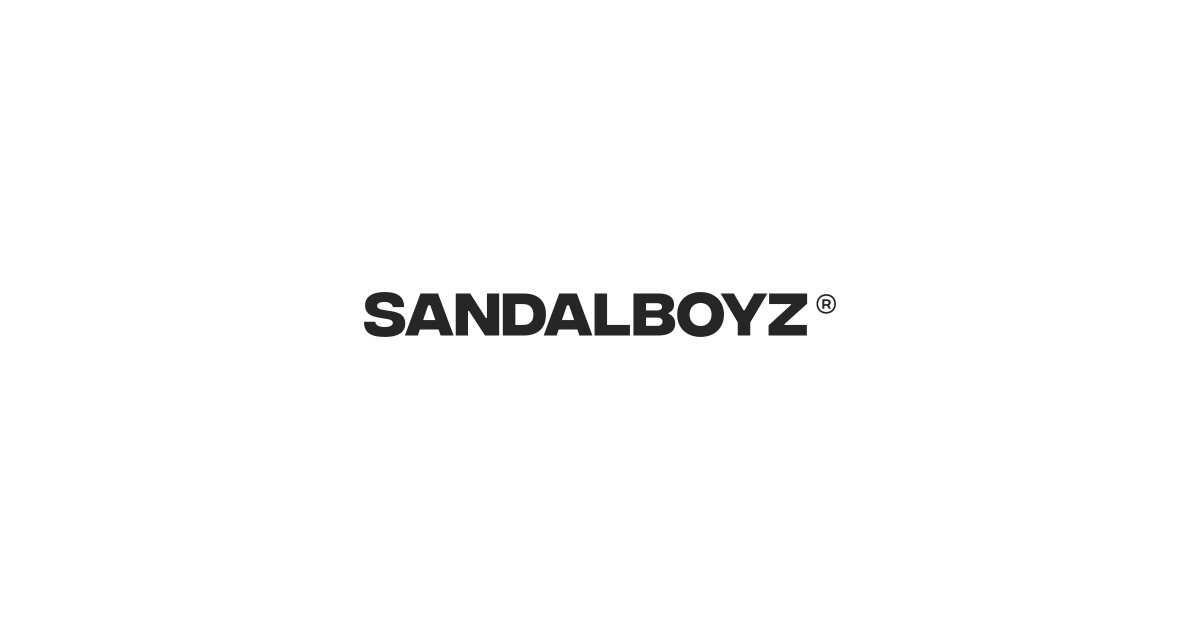
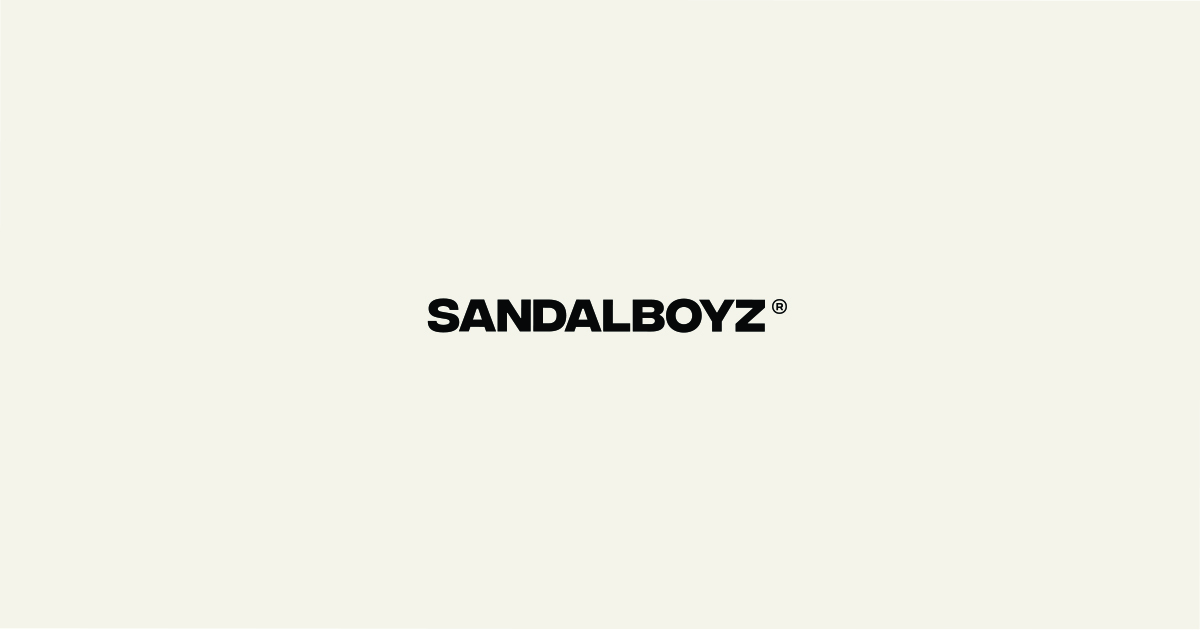
Feat/about seo (#52)
* add head

* fix contentful oncreatenode

* add about logo

* about page transo

Changed region(s): [[0.3083, 0.4524, 0.7092, 0.5429]]

diff --git a/src/components/About/index.js b/src/components/About/index.js
@@ -1,17 +1,19 @@
 import React from 'react';
 import PropTypes from 'prop-types';
 import Image from 'gatsby-image';
+import { motion } from 'framer-motion';
 import styled from 'styled-components';
 import get from 'lodash/get';
 import { documentToReactComponents } from '@contentful/rich-text-react-renderer';
 
-import colors, { randomSandalboyzColor } from '@utils/colors';
+import { fadeInEntry } from '@utils/animations';
+import colors from '@utils/colors';
 import {
   H100 as BaseH100,
   H200 as BaseH200,
   H300 as BaseH300,
 } from '@utils/type';
-import space, { H_PADDING, H_PADDING_MOBILE } from '@utils/space';
+import space from '@utils/space';
 import { mq } from '@utils/styles';
 
 const STICKY_WRAPPER_COLORS = [
@@ -20,7 +22,7 @@ const STICKY_WRAPPER_COLORS = [
   colors.SANDALBOYZ_ROSE,
 ];
 
-const SectionContainer = styled.section`
+const SectionContainer = styled(motion.section)`
   display: flex;
   align-items: flex-start;
   flex-direction: column;
@@ -92,7 +94,7 @@ const TileImage = styled(Image)`
   }
 `;
 
-const TitleContainer = styled.header`
+const TitleContainer = styled(motion.header)`
   margin-top: ${space[9]};
   margin-bottom: ${space[9]};
   text-align: center;
@@ -140,7 +142,7 @@ const Divider = styled.span`
 
 export const About = ({ title, description, sections }) => (
   <>
-    <TitleContainer>
+    <TitleContainer {...fadeInEntry()}>
       <H100>{title}</H100>
       <Description>{documentToReactComponents(description)}</Description>
     </TitleContainer>
@@ -149,7 +151,11 @@ export const About = ({ title, description, sections }) => (
       const reverse = index % 2 !== 0;
 
       return (
-        <SectionContainer reverse={reverse} key={index}>
+        <SectionContainer
+          key={index}
+          reverse={reverse}
+          {...fadeInEntry({ delay: 1 })}
+        >
           <StickyWrapper index={index}>
             <StickySection>
               <H200>{get(section, 'node.header')}</H200>

diff --git a/src/pages/about.js b/src/pages/about.js
@@ -1,17 +1,35 @@
 import React from 'react';
 import { graphql } from 'gatsby';
-import About from '@components/About';
 import get from 'lodash/get';
 
+import Head from '@utils/seo';
+import About from '@components/About';
+import logo from '@images/logo.jpg';
+
 const AboutPage = ({ data }) => {
-  console.log(data);
+  const additionalSchemaOrg = {
+    '@context': 'https://schema.org',
+    '@type': 'Organization',
+    url: 'https://www.sandalboyz.com',
+    logo: logo,
+  };
 
   return (
-    <About
-      title={get(data, 'aboutPage.edges[0].node.title')}
-      description={get(data, 'aboutPage.edges[0].node.description.json')}
-      sections={get(data, 'aboutPageSections.edges')}
-    />
+    <>
+      <Head
+        title="About Us"
+        description={get(
+          data,
+          'aboutPage.edges[0].node.descriptionPlainText.descriptionPlainText'
+        )}
+        additionalSchemaOrg={additionalSchemaOrg}
+      />
+      <About
+        title={get(data, 'aboutPage.edges[0].node.title')}
+        description={get(data, 'aboutPage.edges[0].node.description.json')}
+        sections={get(data, 'aboutPageSections.edges')}
+      />
+    </>
   );
 };
 
@@ -23,16 +41,12 @@ export const aboutPageQuery = graphql`
       edges {
         node {
           description {
-            content {
-              content {
-                nodeType
-                value
-              }
-              nodeType
-            }
             json
           }
           title
+          descriptionPlainText {
+            descriptionPlainText
+          }
         }
       }
     }
@@ -41,13 +55,6 @@ export const aboutPageQuery = graphql`
         node {
           header
           description {
-            content {
-              content {
-                nodeType
-                value
-              }
-              nodeType
-            }
             json
           }
           subSections {

diff --git a/gatsby-node.js b/gatsby-node.js
@@ -130,11 +130,9 @@ exports.onCreateNode = ({ node, actions, getNode }) => {
   const { createNodeField } = actions;
   fmImagesToRelative(node); // convert image paths for gatsby images
 
-  if (
-    node.internal.type === 'MarkdownRemark' &&
-    // @TODO: Figure out where this strange node is coming from!
-    node.id !== '78d4adbd-75d6-5aea-bf6e-7a2608ccf7dd'
-  ) {
+  // @TODO: Figure out `onCreateNode` for Contentful.
+  // `fileAbsolutePath` is missing from Contentful nodes and the following code uses that field.
+  if (node.internal.type === 'MarkdownRemark' && node.fileAbsolutePath) {
     const value = createFilePath({ node, getNode });
 
     if (node.frontmatter.templateKey === 'story') {
